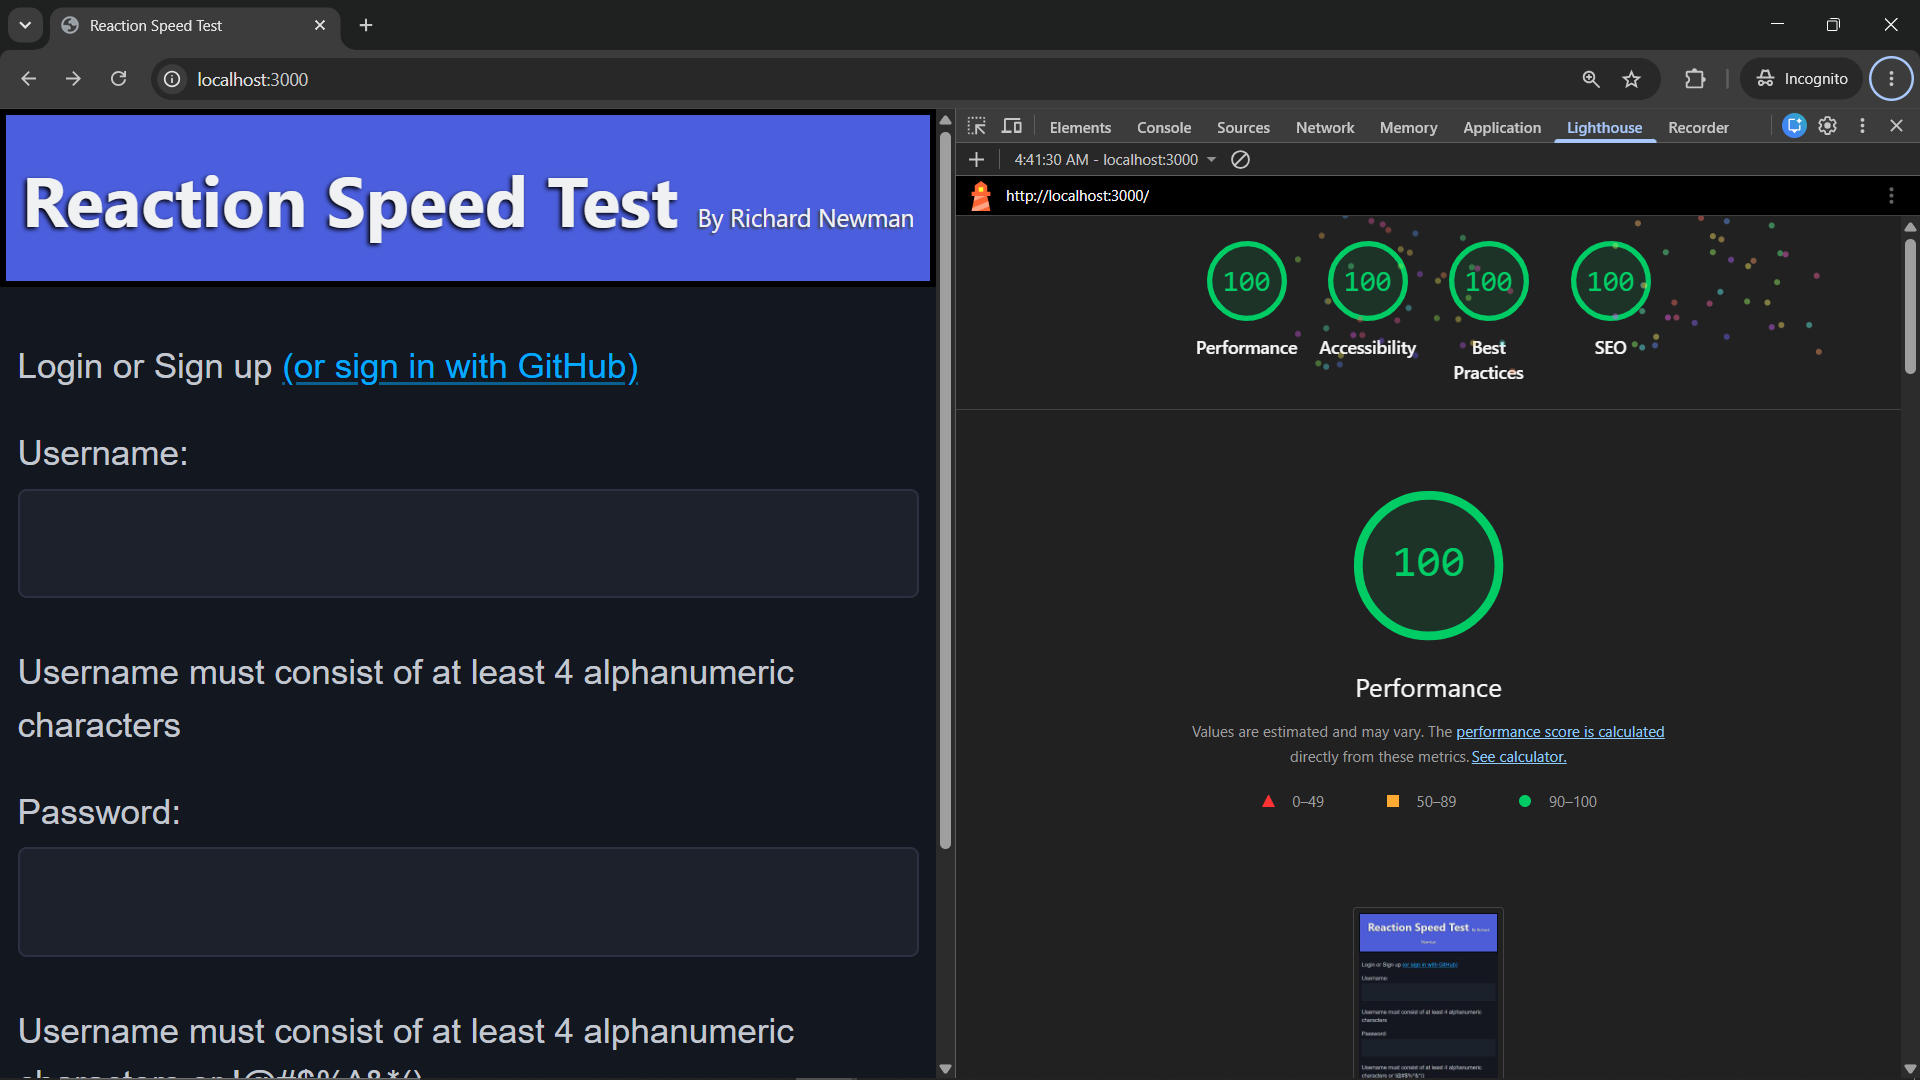
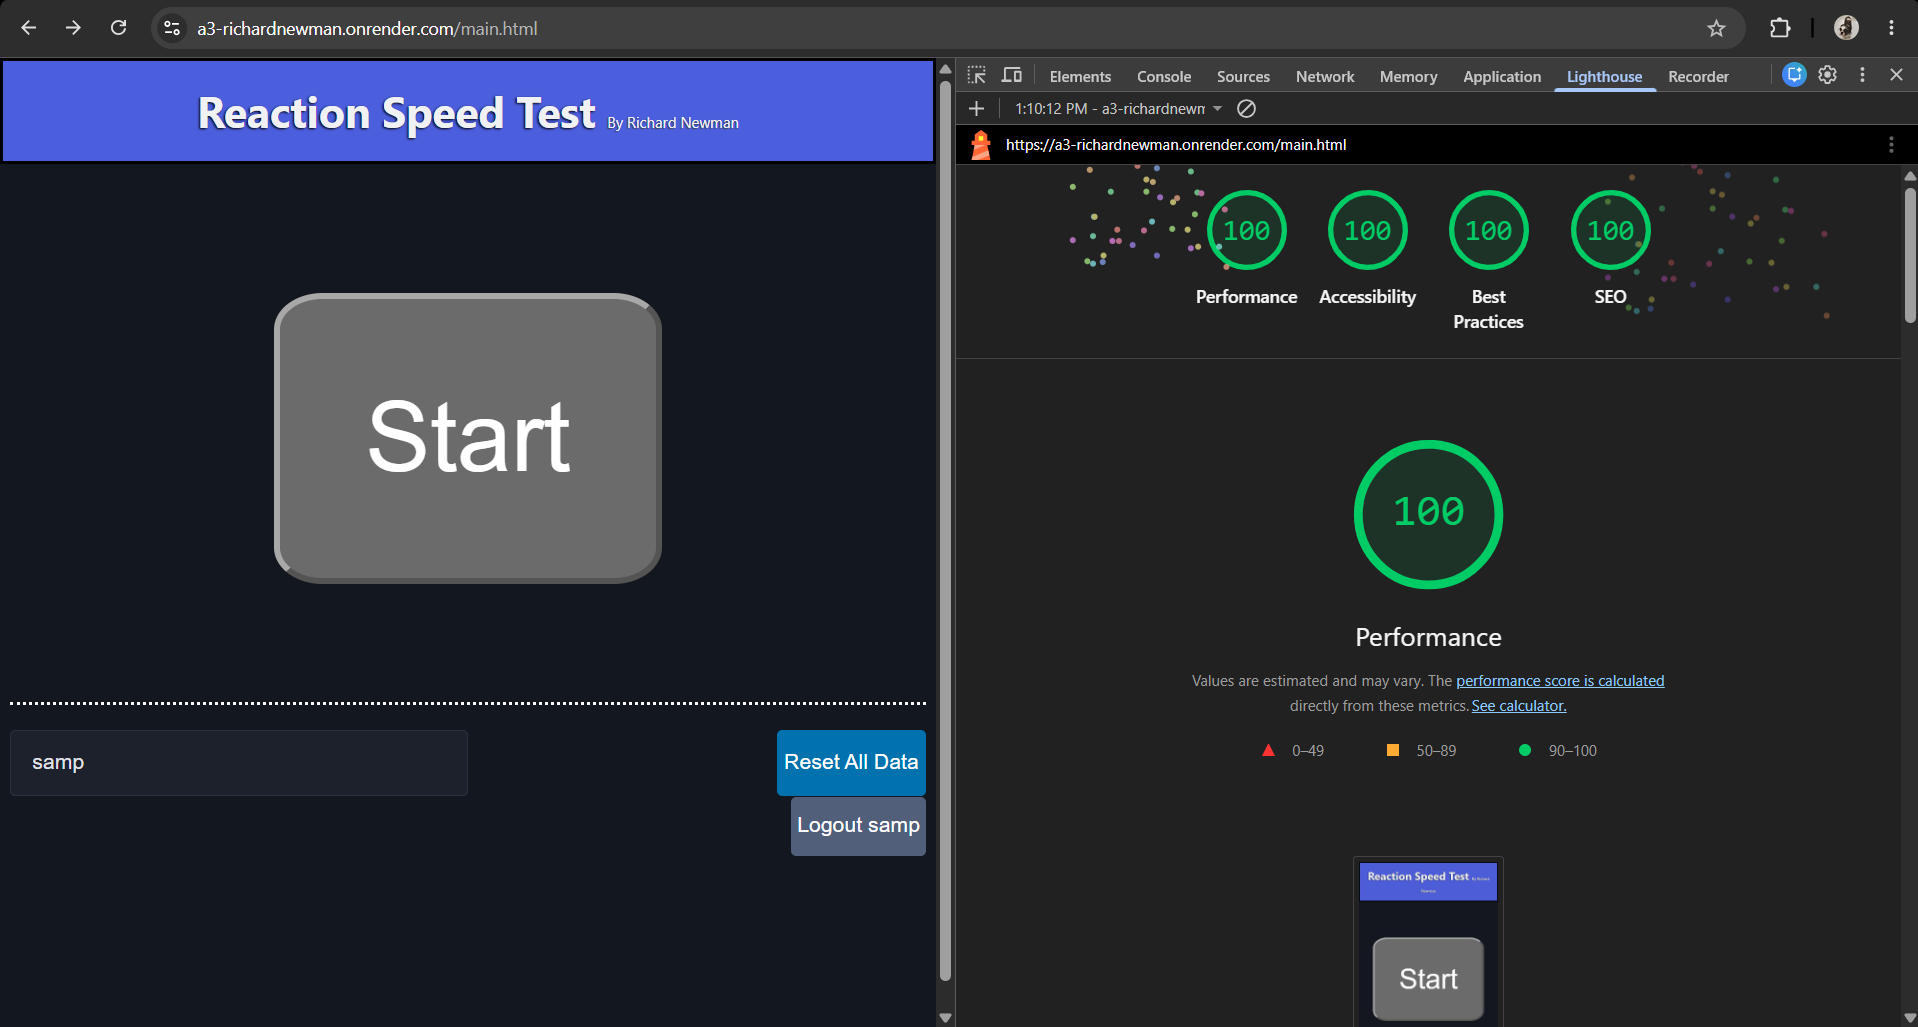
Updated README and lighthouse pass screenshot

diff --git a/README.md b/README.md
@@ -10,7 +10,7 @@ For this assignment, I updated the reaction speed test I made for assignment 2, 
 
 ## Technical Achievements
 
-- **Lighthouse Tests Passed**: Using Google Chrome's built-in lighthouse tests in an incognito tab with my site gave it a 100% with all 4 categories (with fireworks) for both the login and main pages. The pages would inconsistently give lower performance metrics when not incognito; exploring the treemap shows a majority of the data being from scripts executed by browser extensions; disabling all of them results in the 100%. The test was also seemingly picky on giving a 100% score due to the amount of unused CSS from the chosen CSS framework. For this result, I had to optimize some of my requests to the database, since many could be combined from two separate requests into one by also sending the relevant user's data along with the response, as well as deferring the loading of some items.
+- **Lighthouse Tests Passed**: Using Google Chrome's built-in lighthouse tests in an incognito tab with my site gave it a 100% with all 4 categories (with fireworks) for both the login and main pages. The pages would inconsistently give lower performance metrics when not incognito; exploring the treemap shows a majority of the data being from scripts executed by browser extensions. Additionally, the score was brought down by the fact that the layout slightly shifted when the data was brought in from the server; when the user's time list is empty, the score reaches 100%. For this result, I had to optimize some of my requests to the database, since many could be combined from two separate requests into one by also sending the relevant user's data along with the response. The test was also seemingly picky on giving a 100% score due to the amount of unused CSS from the chosen CSS framework. It aditionally gave some warnings about blocking requests; I deferred the CSS framework and edited the main CSS to prevent any particularly major page changes as a result, and minified my JS and CSS. The login page was much more consistent in getting full marks, since the page itself was much smaller and simpler.
 
 ![Fireworks](LighthouseTests.png)
 
